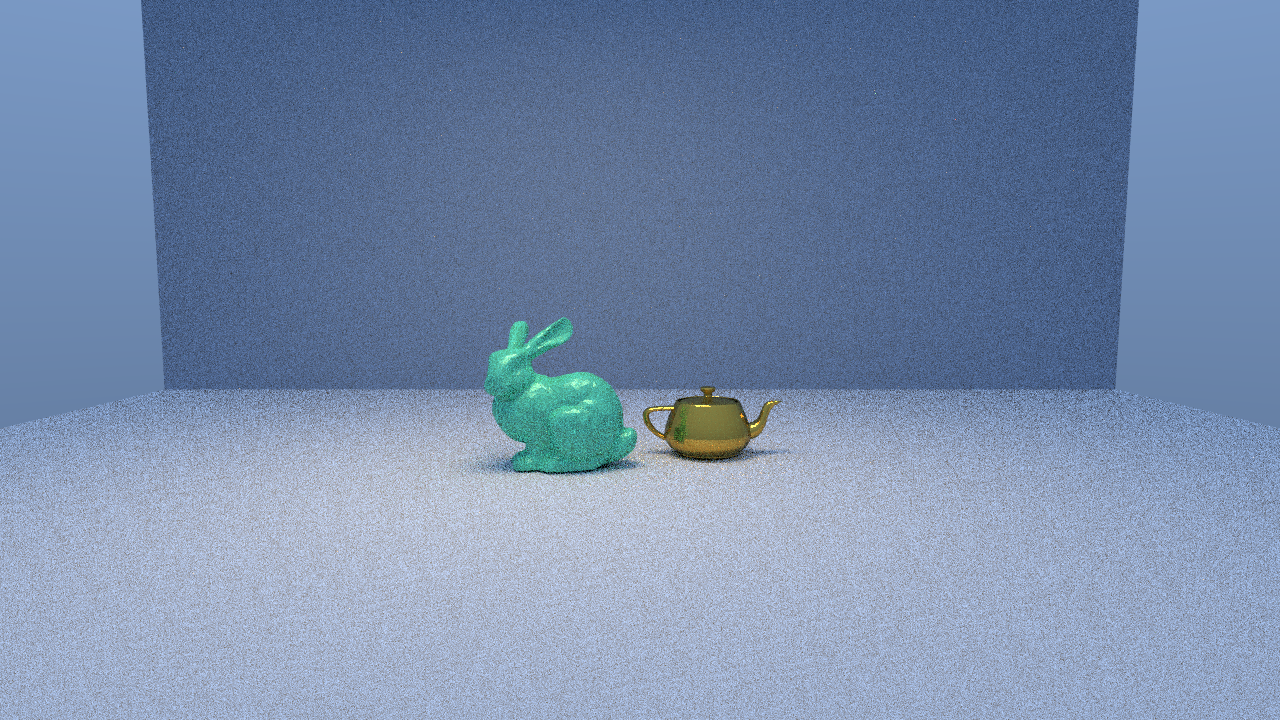
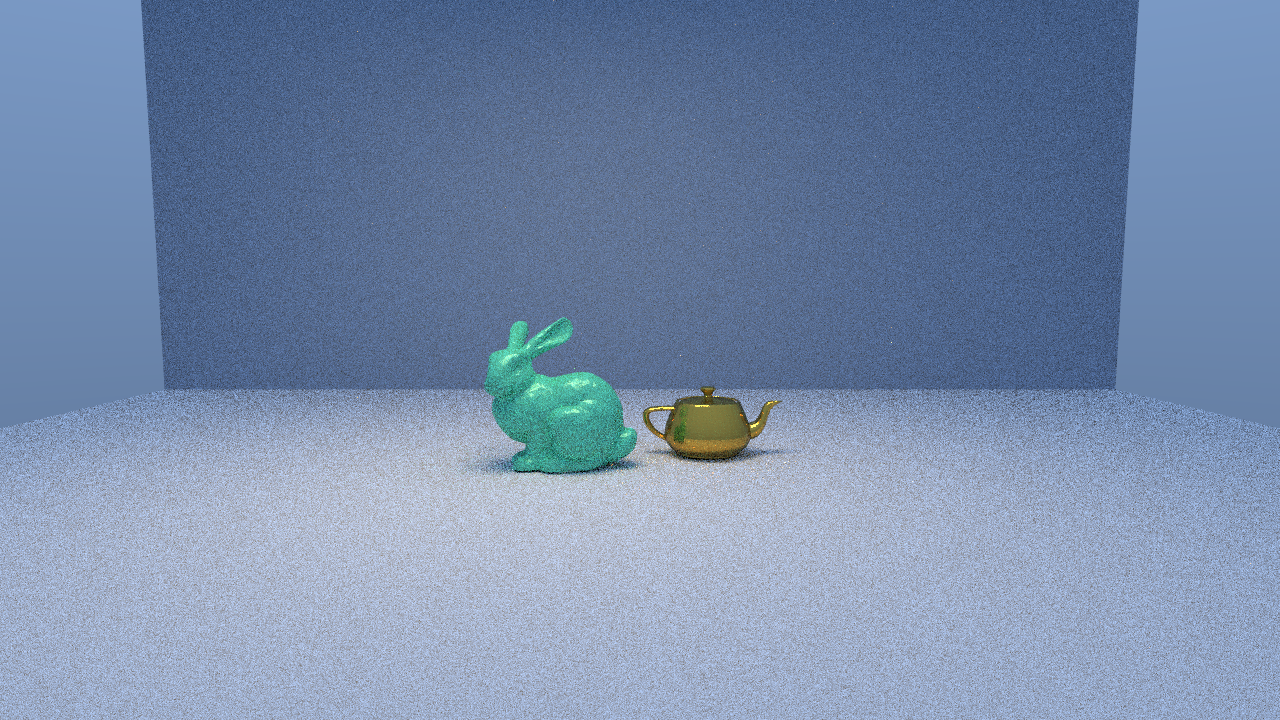
Add emissive mesh-light NEE and MIS

diff --git a/tools/run_validation_pipeline.py b/tools/run_validation_pipeline.py
@@ -116,6 +116,14 @@ def publish_png(source: pathlib.Path, destination: pathlib.Path) -> str:
     return str(destination.relative_to(ROOT))
 
 
+def mean_absolute_difference(first: pathlib.Path, second: pathlib.Path) -> float:
+    first_width, first_height, first_pixels = rgb_pixels(first)
+    second_width, second_height, second_pixels = rgb_pixels(second)
+    if (first_width, first_height) != (second_width, second_height):
+        raise ValueError("visual comparison dimensions do not match")
+    return sum(abs(a - b) for a, b in zip(first_pixels, second_pixels)) / len(first_pixels)
+
+
 def write_reports(output: pathlib.Path, records: list[dict[str, object]], elapsed: float) -> None:
     report = {"status": "passed", "elapsed_seconds": round(elapsed, 3), "validations": records}
     (output / "validation-report.json").write_text(json.dumps(report, indent=2) + "\n", encoding="utf-8")
@@ -225,6 +233,24 @@ def main() -> int:
             result["published"] = publish_png(target, gallery / "pipeline_cuda_multi_asset_smoke.png")
             return result
         stage("render-cuda-multi-asset", cuda_render)
+
+        mesh_baseline = output / "mesh_light_baseline.ppm"
+        mesh_feature = output / "mesh_light_feature.ppm"
+        def cuda_mesh_light():
+            for mode, target in (("--mesh-light-baseline", mesh_baseline),
+                                 ("--mesh-light", mesh_feature)):
+                run([str(executable(gpu, "cuda_pathtracer", args.config)), mode,
+                     str(target), str(args.spp)])
+                validate_image(target, (640, 360))
+            difference = mean_absolute_difference(mesh_baseline, mesh_feature)
+            if difference < 2.0:
+                raise ValueError(f"mesh-light visual delta is too small: {difference:.3f}")
+            return {
+                "mean_absolute_difference": round(difference, 3),
+                "baseline": publish_png(mesh_baseline, gallery / "pipeline_mesh_light_baseline.png"),
+                "feature": publish_png(mesh_feature, gallery / "pipeline_mesh_light_nee_mis.png"),
+            }
+        stage("render-cuda-mesh-light", cuda_mesh_light)
 
     write_reports(output, records, time.monotonic() - started)
     print(f"pipeline passed: {len(records)} validations; reports in {output}")

diff --git a/tools/run_quality_renders.py b/tools/run_quality_renders.py
@@ -139,6 +139,13 @@ def main() -> int:
         publish(source, f"evolution_anisotropy_stage15_{label}_{args.gpu_spp}spp.png",
                 (640, 360), f"anisotropy-{label}")
 
+    for mode, label in (("--mesh-light-baseline", "baseline"), ("--mesh-light", "nee_mis")):
+        source = artifacts / f"mesh_light_{label}_{args.gpu_spp}spp.ppm"
+        run([str(executable(gpu, "cuda_pathtracer", args.config)), mode,
+             str(source), str(args.gpu_spp)])
+        publish(source, f"evolution_mesh_light_stage16_{label}_{args.gpu_spp}spp.png",
+                (640, 360), f"mesh-light-{label}")
+
     models = ROOT / "LabX" / "data" / "legacy_converted" / "meshes"
     multi = artifacts / f"cuda_multi_asset_{args.gpu_spp}spp.ppm"
     run([str(executable(gpu, "cuda_pathtracer", args.config)), "--scene", str(multi), str(args.gpu_spp),
